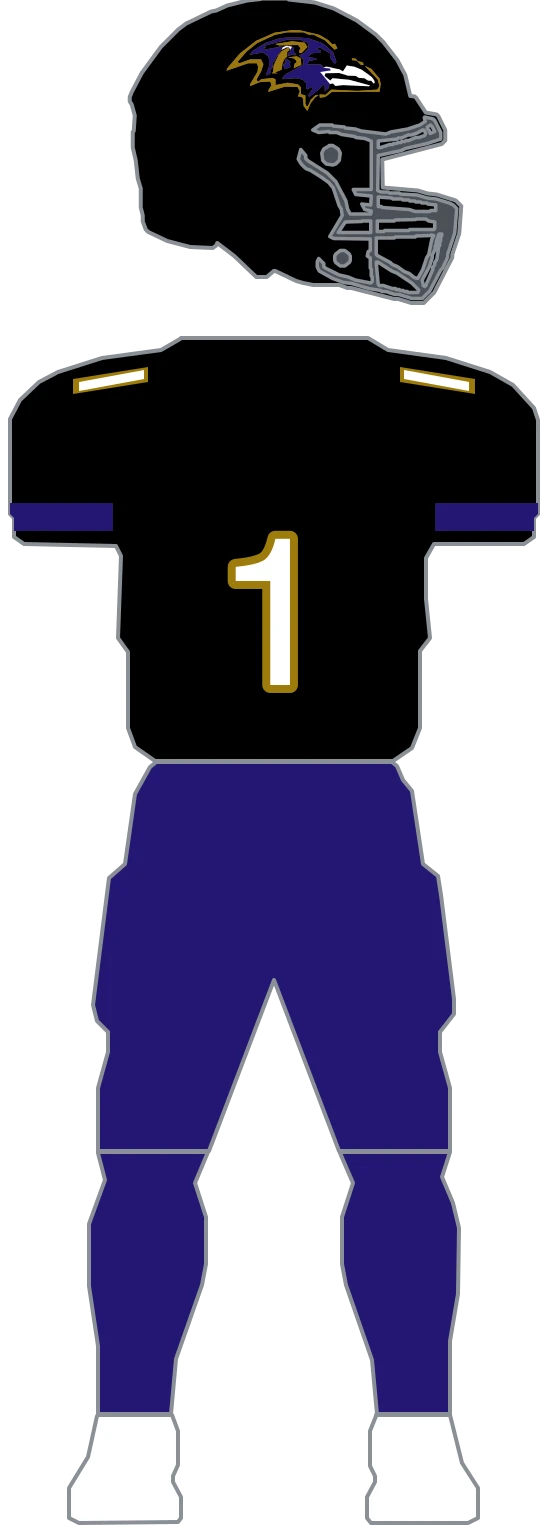
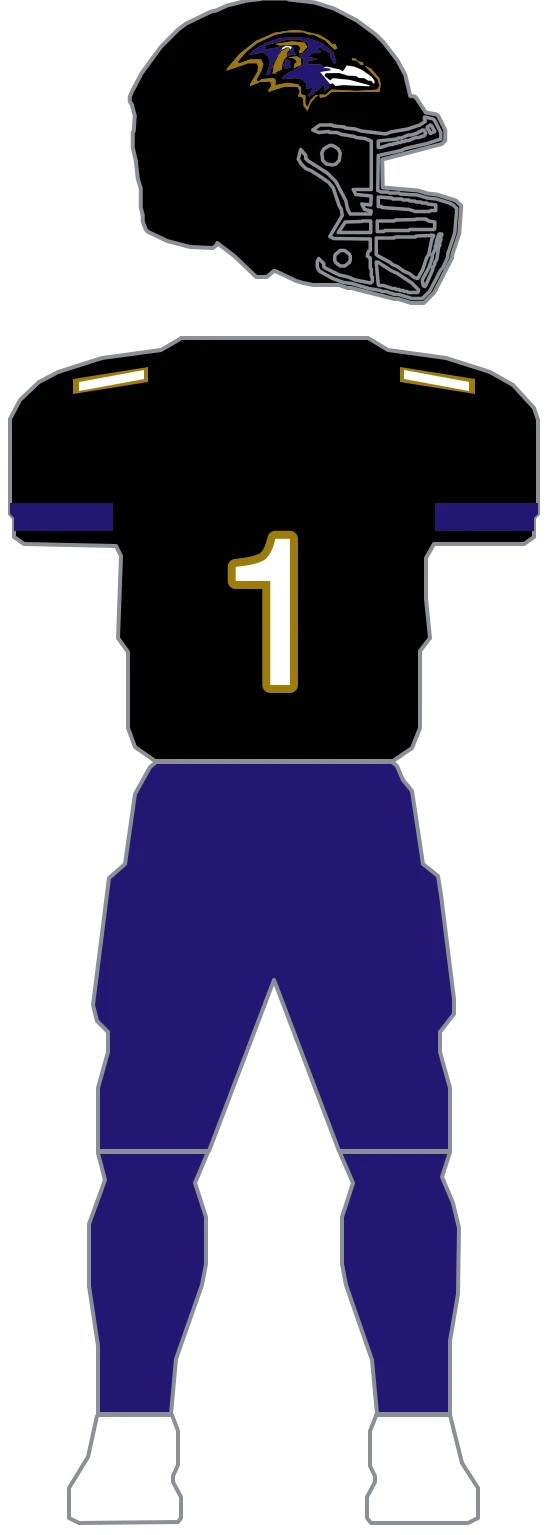
feat(uniforms): migrate Ravens to composable parts and set its black facemask
All three kits are ONE construction with the tokens swapped: a bare black
shell carrying the raven head, a short tilted gold-keyline bar on each
shoulder cap, a solid band filling the last third of each sleeve, and trimmed
numerals. Parts express that as 1 helmet / 3 jerseys / 1 pants, matching the
measured target exactly.

The single helmet is the whole point here. The shell is black with the same
four-layer mark on every kit, but the flat definition reached it three
different ways — `secondary` at home, a literal away, and the implicit
`primary` on the black alternate — because black moves across all three
tokens as the kit rows change. One named part replaces all of it. Pants
factor the same way: purple everywhere, previously `primary` at home and
`secondary` on the other two.

Two golds stay distinct: the shoulder keyline and numeral outline take the
row accent (#9E7C0C), the mark its own deeper #9A7611.

The migration's parity gate proved all 6 ravens rasters (3 kits x 2 variants)
byte-identical against the flat definition, then the flat definition and its
builder helpers were deleted and the team removed from MIGRATED, per the
one-time-proof lifecycle (depth#660).

Facemask follows the parts migration per phase order: every helmet figure on
the GUD 2025 composite wears a black cage on all three rows, so all three
shells get one. Only the three -full rasters move.

diff --git a/lib/uniforms/teams/ravens.ts b/lib/uniforms/teams/ravens.ts
@@ -1,5 +1,3 @@
-import type { ColorRef, TeamUniformDefinition, UniformLayer, UniformSurface } from './types';
-
 // Baltimore's three archived kits, redrawn from the Gridiron Uniform Database 2025 composite in
 // nfl-uniform-refs/ravens (home is that sheet's row-1 figure 1, black alternate its row-2 figure 3,
 // away its row-3 figure 1 — the other figures in each row are pant combinations, not separate
@@ -19,13 +17,11 @@ import type { ColorRef, TeamUniformDefinition, UniformLayer, UniformSurface } fr
 //
 // Out of scope on every kit: the chest wordmark, the league shield, and the shield patch the
 // reference draws on each sleeve.
-
-// Two literals. The home palette is purple over black with gold in accent, so nothing resolves to
-// the white bar face or the white numerals; and the AWAY palette (white/purple/gold) carries no
-// black at all, so its shell and sleeve band have no token either. Both hexes are the values the
-// archive already stores for this club's other kits (lib/uniforms/data.ts).
-export const RAVENS_WHITE = '#FFFFFF';
-export const RAVENS_BLACK = '#000000';
+//
+// Construction geometry only — the shoulder-bar, sleeve-band and mark paths. The composable parts
+// definition that consumes them lives in ./ravens.parts.ts; the former flat RAVENS_UNIFORMS was
+// deleted in the migration that proved parts render byte-identically (see parts-parity.test.ts for
+// the one-time gate).
 
 // The shoulder bar, measured on the home figure (jersey top y=132, sleeve hem y=197, figure center
 // x=99.5, so scaleY = 191/65 and scaleX = 264/84.5). It runs reference x35-59 and is tilted about
@@ -44,17 +40,6 @@ export const RAVENS_SHOULDER_INNER_RIGHT = 'M489,427 L424,415 L424,424 L489,436 
 // outward to x=30 and past the hem to y=576 so the jersey clip trims it flush.
 export const RAVENS_SLEEVE_BAND_LEFT = 'M30,548 H133 V576 H30 Z';
 export const RAVENS_SLEEVE_BAND_RIGHT = 'M558,548 H455 V576 H558 Z';
-
-const GENERIC_STRIPPED = [
-  'generic-helmet-stripe',
-  'generic-sleeve-yoke-left',
-  'generic-sleeve-yoke-right',
-  'generic-sleeve-stripe-left',
-  'generic-sleeve-stripe-right',
-  'generic-collar',
-  'generic-pants-stripe-left',
-  'generic-pants-stripe-right',
-];
 
 // Provenance: contour trace of the club's mark from the GUD composite — a reproduction
 // of a third-party mark, not original geometry. The mark is NON-FREE upstream
@@ -80,84 +65,3 @@ export const RAVENS_DECAL_LETTER_PATH =
   'M460.6,128.1 L480.9,128.8 L518.6,137.9 L536.0,148.3 L544.1,156.7 L549.3,155.4 L554.5,164.5 L548.7,167.2 L529.0,148.3 L505.9,137.2 L496.6,137.2 L486.1,132.7 L453.1,132.7 L428.8,137.9 L394.0,154.1 L372.6,171.1 L354.6,191.9 L358.6,194.5 L380.1,186.7 L401.5,186.7 L406.2,196.4 L402.1,210.1 L392.8,226.4 L394.0,230.3 L396.9,230.9 L402.1,226.4 L425.3,223.8 L430.5,227.0 L430.5,238.1 L454.9,233.5 L475.7,236.8 L481.5,242.6 L481.5,256.3 L490.2,258.9 L490.2,275.2 L492.5,280.4 L495.4,279.7 L501.2,267.3 L510.5,258.2 L516.9,258.2 L509.9,262.8 L500.6,274.5 L494.3,290.1 L486.7,279.7 L485.6,265.4 L482.7,262.1 L475.1,260.8 L479.2,250.4 L474.6,242.0 L449.1,241.3 L416.6,251.7 L416.6,247.8 L422.4,238.7 L420.1,230.9 L399.2,232.2 L380.1,240.0 L379.5,236.8 L394.6,211.4 L395.7,201.0 L392.8,194.5 L376.0,194.5 L332.6,209.4 L333.7,204.9 L359.2,175.0 L391.7,149.6 L428.8,133.3 L460.1,128.8 Z M454.3,163.9 L457.2,164.5 L458.3,168.5 L453.7,171.7 L453.7,181.5 L449.1,184.7 L444.4,194.5 L442.7,207.5 L429.4,212.7 L434.6,214.6 L423.6,214.6 L425.9,211.4 L427.0,198.4 L436.9,177.6 L442.7,170.4 L453.7,164.5 Z M610.8,200.3 L621.8,205.5 L638.6,225.1 L640.9,236.1 L638.6,251.7 L543.5,251.7 L529.6,262.1 L519.2,263.4 L518.6,256.9 L530.8,257.6 L541.8,247.2 L594.5,249.8 L633.9,247.2 L638.6,240.0 L634.5,226.4 L610.2,201.0 Z M461.8,150.2 L489.0,153.5 L494.3,161.9 L483.2,173.7 L478.0,174.3 L477.5,169.1 L480.9,165.2 L475.7,158.0 L437.5,158.7 L429.9,156.1 L461.2,150.9 Z M472.2,180.2 L480.9,184.7 L482.1,197.7 L467.0,204.2 L468.8,195.1 L472.8,192.5 L472.2,189.3 L467.0,184.7 L454.9,182.8 L471.7,180.8 Z M583.5,184.1 L590.5,184.7 L595.1,189.9 L605.5,192.5 L607.3,197.7 L601.5,198.4 L592.8,189.9 L583.5,188.6 L582.9,184.7 Z';
 export const RAVENS_DECAL_BEAK_PATH =
   'M573.1,199.0 L588.7,201.6 L603.2,207.5 L623.5,222.5 L628.1,229.0 L628.7,234.2 L626.4,234.8 L622.3,229.6 L615.4,229.0 L608.4,224.4 L597.4,223.8 L591.0,219.9 L575.4,219.2 L558.0,214.0 L530.2,214.6 L528.5,219.9 L540.0,229.0 L544.7,224.4 L578.3,227.7 L619.4,238.7 L617.7,240.7 L566.1,238.1 L550.5,240.0 L545.3,234.8 L539.5,236.1 L519.8,212.0 L541.2,208.8 L538.9,204.9 L526.1,203.6 L531.9,201.0 L558.6,206.8 L565.5,210.7 L572.5,199.7 Z M451.4,159.3 L463.5,161.3 L460.1,167.2 L457.2,162.6 L452.5,162.6 L442.7,167.8 L445.0,162.6 L450.8,160.0 Z';
-
-// Fixed art: purple over gold on a black shell on every kit, so nothing here takes a token — the
-// away kit's palette moves purple out of reach entirely, which is exactly the case literals exist
-// for.
-export const RAVENS_DECAL_PURPLE = '#241773';
-export const RAVENS_DECAL_GOLD = '#9A7611';
-
-function decal(): UniformLayer[] {
-  return (
-    [
-      ['ravens-decal-keyline', RAVENS_DECAL_KEYLINE_PATH, RAVENS_DECAL_GOLD],
-      ['ravens-decal-head', RAVENS_DECAL_HEAD_PATH, RAVENS_DECAL_PURPLE],
-      ['ravens-decal-letter', RAVENS_DECAL_LETTER_PATH, RAVENS_DECAL_GOLD],
-      ['ravens-decal-beak', RAVENS_DECAL_BEAK_PATH, RAVENS_WHITE],
-    ] as [string, string, ColorRef][]
-  ).map(([id, d, fill]) => ({
-    id,
-    surface: 'helmet' as const,
-    d,
-    clip: true,
-    kind: 'fill' as const,
-    fill,
-  }));
-}
-
-// Gold keyline first, face over it — the same paint order every trimmed mark here uses.
-function shoulderBars(face: ColorRef): UniformLayer[] {
-  const bars: [string, UniformSurface, string, ColorRef][] = [
-    ['ravens-shoulder-outer-left', 'sleeve-left', RAVENS_SHOULDER_OUTER_LEFT, 'accent'],
-    ['ravens-shoulder-outer-right', 'sleeve-right', RAVENS_SHOULDER_OUTER_RIGHT, 'accent'],
-    ['ravens-shoulder-inner-left', 'sleeve-left', RAVENS_SHOULDER_INNER_LEFT, face],
-    ['ravens-shoulder-inner-right', 'sleeve-right', RAVENS_SHOULDER_INNER_RIGHT, face],
-  ];
-  return bars.map(([id, surface, d, fill]) => ({ id, surface, d, clip: true, kind: 'fill', fill }));
-}
-
-function sleeveBands(fill: ColorRef): UniformLayer[] {
-  return [
-    ['ravens-sleeve-band-left', 'sleeve-left', RAVENS_SLEEVE_BAND_LEFT],
-    ['ravens-sleeve-band-right', 'sleeve-right', RAVENS_SLEEVE_BAND_RIGHT],
-  ].map(([id, surface, d]) => ({
-    id,
-    surface: surface as UniformSurface,
-    d,
-    clip: true,
-    kind: 'fill' as const,
-    fill,
-  }));
-}
-
-export const RAVENS_UNIFORMS: TeamUniformDefinition = {
-  teamId: 'ravens',
-  // Every kit strips the same generic model; what differs is only which token carries each color.
-  defaults: { removeLayerIds: GENERIC_STRIPPED },
-  kits: {
-    // Purple body over purple pants under the black shell. Black is `secondary` here, so the sleeve
-    // band takes the token; the bar face and numeral face are white, which this palette cannot
-    // supply, so both take the literal.
-    home: {
-      helmetColor: 'secondary',
-      layers: [...shoulderBars(RAVENS_WHITE), ...sleeveBands('secondary'), ...decal()],
-      number: { fill: RAVENS_WHITE, outline: 'accent', outlineWidth: 16 },
-    },
-    // White body over purple pants. The away palette moves white into primary and purple into
-    // secondary, so the bar face and numeral face swap onto `secondary` and the black shell and
-    // sleeve band — which this palette has no token for at all — take the literal.
-    away: {
-      helmetColor: RAVENS_BLACK,
-      pantsColor: 'secondary',
-      layers: [...shoulderBars('secondary'), ...sleeveBands(RAVENS_BLACK), ...decal()],
-      number: { fill: 'secondary', outline: 'accent', outlineWidth: 16 },
-    },
-    // Black body over purple pants. Black is this kit's primary, so the shell needs no override,
-    // and purple has moved into secondary — which is what the reference paints the sleeve band.
-    'black-alt': {
-      pantsColor: 'secondary',
-      layers: [...shoulderBars(RAVENS_WHITE), ...sleeveBands('secondary'), ...decal()],
-      number: { fill: RAVENS_WHITE, outline: 'accent', outlineWidth: 16 },
-    },
-  },
-};

diff --git a/lib/uniforms/teams/ravens.parts.ts b/lib/uniforms/teams/ravens.parts.ts
@@ -1,0 +1,134 @@
+// Baltimore authored as composable parts. Geometry is imported unchanged from ravens.ts — this
+// file only restates WHICH parts each kit combines, and names every color from the team palette
+// instead of the kit row's shifting primary/secondary/accent.
+//
+// All three kits are ONE construction with the tokens swapped: a bare black shell carrying the
+// raven head, a short tilted gold-keyline bar on each shoulder cap, a solid band filling the last
+// third of each sleeve, and trimmed numerals. No helmet stripe, no collar trim, no pant stripe.
+//
+// The measured target is 1 helmet / 3 jersey / 1 pants, and that is what this factors to. The
+// single helmet is the whole point of the model here: the shell is black with the same four-layer
+// mark on every kit, but the flat definition reached it three different ways — `secondary` at
+// home, a literal away, and the implicit `primary` on the black alternate — because black moves
+// across all three tokens. One part, named `black`, replaces all of it. Pants are likewise one
+// part: purple on every kit, arrived at as `primary` at home and `secondary` on the other two.
+//
+// Two golds, deliberately. The shoulder keyline and the numeral outline take the kit row's accent
+// (#9E7C0C), while the mark's own gold is #9A7611 — a slightly deeper value traced off the GUD
+// composite. They were distinct in the flat definition and stay distinct here; collapsing them
+// would repaint the mark.
+
+import {
+  RAVENS_DECAL_BEAK_PATH,
+  RAVENS_DECAL_HEAD_PATH,
+  RAVENS_DECAL_KEYLINE_PATH,
+  RAVENS_DECAL_LETTER_PATH,
+  RAVENS_SHOULDER_INNER_LEFT,
+  RAVENS_SHOULDER_INNER_RIGHT,
+  RAVENS_SHOULDER_OUTER_LEFT,
+  RAVENS_SHOULDER_OUTER_RIGHT,
+  RAVENS_SLEEVE_BAND_LEFT,
+  RAVENS_SLEEVE_BAND_RIGHT,
+} from './ravens';
+import { compileParts, type PartLayer, type TeamPartsDefinition, type UniformPart } from './parts';
+import type { UniformSurface } from './types';
+
+// The raven head: gold keyline, purple head, gold "B", white beak, in that paint order. Fixed art
+// on every shell the club wears, so nothing here varies by kit.
+function decal(): PartLayer[] {
+  return (
+    [
+      ['ravens-decal-keyline', RAVENS_DECAL_KEYLINE_PATH, 'decalGold'],
+      ['ravens-decal-head', RAVENS_DECAL_HEAD_PATH, 'purple'],
+      ['ravens-decal-letter', RAVENS_DECAL_LETTER_PATH, 'decalGold'],
+      ['ravens-decal-beak', RAVENS_DECAL_BEAK_PATH, 'white'],
+    ] as [string, string, string][]
+  ).map(([id, d, fill]) => ({
+    id,
+    surface: 'helmet' as const,
+    d,
+    clip: true,
+    kind: 'fill' as const,
+    fill,
+  }));
+}
+
+// Gold keyline first, face over it — the same paint order every trimmed mark here uses.
+function shoulderBars(face: string): PartLayer[] {
+  const bars: [string, UniformSurface, string, string][] = [
+    ['ravens-shoulder-outer-left', 'sleeve-left', RAVENS_SHOULDER_OUTER_LEFT, 'gold'],
+    ['ravens-shoulder-outer-right', 'sleeve-right', RAVENS_SHOULDER_OUTER_RIGHT, 'gold'],
+    ['ravens-shoulder-inner-left', 'sleeve-left', RAVENS_SHOULDER_INNER_LEFT, face],
+    ['ravens-shoulder-inner-right', 'sleeve-right', RAVENS_SHOULDER_INNER_RIGHT, face],
+  ];
+  return bars.map(([id, surface, d, fill]) => ({ id, surface, d, clip: true, kind: 'fill', fill }));
+}
+
+function sleeveBands(fill: string): PartLayer[] {
+  return (
+    [
+      ['ravens-sleeve-band-left', 'sleeve-left', RAVENS_SLEEVE_BAND_LEFT],
+      ['ravens-sleeve-band-right', 'sleeve-right', RAVENS_SLEEVE_BAND_RIGHT],
+    ] as [string, UniformSurface, string][]
+  ).map(([id, surface, d]) => ({
+    id,
+    surface,
+    d,
+    clip: true,
+    kind: 'fill' as const,
+    fill,
+  }));
+}
+
+// The only shell (H1): black, with the mark, on every kit. The cage is black too — every helmet
+// figure on the GUD 2025 composite (nfl-uniform-refs/ravens) wears a black facemask, on all three
+// rows. The lone gold cage on that sheet belongs to the purple 1996 throwback shell, which is not
+// a kit this archive carries.
+const HELMET_BLACK: UniformPart = { base: 'black', facemask: 'black', layers: decal() };
+
+// Home jersey (J1): purple body, white bar face, black sleeve band, white numerals.
+const JERSEY_PURPLE: UniformPart = {
+  base: 'purple',
+  layers: [...shoulderBars('white'), ...sleeveBands('black')],
+  number: { fill: 'white', outline: 'gold', outlineWidth: 16 },
+};
+
+// Away jersey (J2): white body, purple bar face, black sleeve band, purple numerals.
+const JERSEY_WHITE: UniformPart = {
+  base: 'white',
+  layers: [...shoulderBars('purple'), ...sleeveBands('black')],
+  number: { fill: 'purple', outline: 'gold', outlineWidth: 16 },
+};
+
+// Black-alternate jersey (J3): black body, white bar face, purple sleeve band, white numerals.
+const JERSEY_BLACK: UniformPart = {
+  base: 'black',
+  layers: [...shoulderBars('white'), ...sleeveBands('purple')],
+  number: { fill: 'white', outline: 'gold', outlineWidth: 16 },
+};
+
+// The only pants (P1): purple and unbroken on every kit.
+const PANTS_PURPLE: UniformPart = { base: 'purple', layers: [] };
+
+export const RAVENS_PARTS: TeamPartsDefinition = {
+  teamId: 'ravens',
+  // Jersey hexes from the curated rows (lib/uniforms/data.ts). `gold` is the row accent that trims
+  // the bars and numerals; `decalGold` is the mark's own deeper gold, traced off the GUD composite.
+  palette: {
+    purple: '#241773',
+    black: '#000000',
+    white: '#FFFFFF',
+    gold: '#9E7C0C',
+    decalGold: '#9A7611',
+  },
+  helmets: { black: HELMET_BLACK },
+  jerseys: { purple: JERSEY_PURPLE, white: JERSEY_WHITE, black: JERSEY_BLACK },
+  pants: { purple: PANTS_PURPLE },
+  kits: {
+    home: { helmet: 'black', jersey: 'purple', pants: 'purple' },
+    away: { helmet: 'black', jersey: 'white', pants: 'purple' },
+    'black-alt': { helmet: 'black', jersey: 'black', pants: 'purple' },
+  },
+};
+
+export const RAVENS_UNIFORMS_FROM_PARTS = compileParts(RAVENS_PARTS);

diff --git a/lib/uniforms/teams/index.ts b/lib/uniforms/teams/index.ts
@@ -24,7 +24,7 @@ import { PANTHERS_UNIFORMS } from './panthers';
 import { PATRIOTS_UNIFORMS } from './patriots';
 import { RAIDERS_UNIFORMS_FROM_PARTS } from './raiders.parts';
 import { RAMS_UNIFORMS } from './rams';
-import { RAVENS_UNIFORMS } from './ravens';
+import { RAVENS_UNIFORMS_FROM_PARTS } from './ravens.parts';
 import { SAINTS_UNIFORMS_FROM_PARTS } from './saints.parts';
 import { SEAHAWKS_UNIFORMS_FROM_PARTS } from './seahawks.parts';
 import { STEELERS_UNIFORMS_FROM_PARTS } from './steelers.parts';
@@ -63,7 +63,7 @@ const DEFINITIONS: Readonly<Partial<Record<string, TeamUniformDefinition>>> = {
   patriots: PATRIOTS_UNIFORMS,
   raiders: RAIDERS_UNIFORMS_FROM_PARTS,
   rams: RAMS_UNIFORMS,
-  ravens: RAVENS_UNIFORMS,
+  ravens: RAVENS_UNIFORMS_FROM_PARTS,
   saints: SAINTS_UNIFORMS_FROM_PARTS,
   seahawks: SEAHAWKS_UNIFORMS_FROM_PARTS,
   steelers: STEELERS_UNIFORMS_FROM_PARTS,
